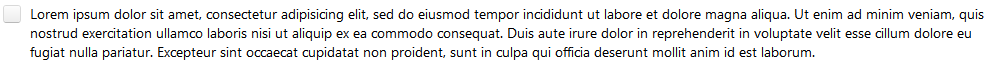
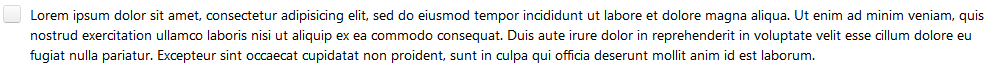
Fixed checkbox styling w/o label

diff --git a/components/Checkbox/Checkbox.js b/components/Checkbox/Checkbox.js
@@ -26,15 +26,15 @@ import '../ensureOldIEClassName';
 import styles from './Checkbox.less';
 
 type Props = {
-  children?: any,
   checked?: boolean,
+  children?: React.Element<*> | string,
   disabled?: boolean,
   error?: boolean,
-  warning?: boolean,
   onChange?: (event: { target: { value: boolean } }, value: boolean) => void,
   onMouseEnter?: (e: SyntheticMouseEvent) => void,
   onMouseLeave?: (e: SyntheticMouseEvent) => void,
-  onMouseOver?: (e: SyntheticMouseEvent) => void
+  onMouseOver?: (e: SyntheticMouseEvent) => void,
+  warning?: boolean
 };
 
 class Checkbox extends React.Component {
@@ -69,15 +69,16 @@ class Checkbox extends React.Component {
       [styles.focus]: this.state.focusedByTab
     });
 
-    const inputProps: Object = {
+    const inputProps = {
       type: 'checkbox',
       className: styles.input,
       checked: this.props.checked,
       disabled: this.props.disabled,
-      onChange: this.handleChange,
+      onChange: this._handleChange,
       ref: this._inputRef,
       onFocus: this._handleFocus,
-      onBlur: this._handleBlur
+      onBlur: this._handleBlur,
+      tabIndex: undefined
     };
     if (this.props.tabIndex) {
       inputProps.tabIndex = this.props.tabIndex;
@@ -127,9 +128,9 @@ class Checkbox extends React.Component {
     this.input = ref;
   };
 
-  handleChange = (event: { target: { checked: boolean } }) => {
+  _handleChange = event => {
     const checked = event.target.checked;
-    this.props.onChange && this.props.onChange((event: any), checked);
+    this.props.onChange && this.props.onChange(event, checked);
   };
 }
 

diff --git a/components/Checkbox/__tests__/Checkbox.stories.js b/components/Checkbox/__tests__/Checkbox.stories.js
@@ -26,19 +26,19 @@ storiesOf('Checkbox', module)
   .add('unchecked', () => <Checkbox>Unchecked</Checkbox>)
   .add('checked', () => <Checkbox checked>Checked</Checkbox>)
   .add('disabled', () => <Checkbox disabled>Disabled</Checkbox>)
-  .add('disabled checked', () => (
+  .add('disabled checked', () =>
     <Checkbox disabled checked>Disabled and checked</Checkbox>
-  ))
+  )
   .add('error', () => <Checkbox error>Error</Checkbox>)
-  .add('with mouse enter/leave handlers', () => (
+  .add('with mouse enter/leave handlers', () =>
     <Checkbox
       onMouseEnter={() => console.count('enter')}
       onMouseLeave={() => console.count('leave')}
     >
       Hover me
     </Checkbox>
-  ))
-  .add('with a long label', () => (
+  )
+  .add('with a long label', () =>
     <PlainCheckbox>
       Lorem ipsum dolor sit amet, consectetur adipisicing elit, sed do eiusmod
       tempor incididunt ut labore et dolore magna aliqua. Ut enim ad minim
@@ -48,4 +48,10 @@ storiesOf('Checkbox', module)
       cupidatat non proident, sunt in culpa qui officia deserunt mollit anim id
       est laborum.
     </PlainCheckbox>
-  ));
+  )
+  .add('w/o label', () =>
+    <div>
+      <div>Some text <Checkbox /></div>
+      <div>Some text <Checkbox>Label</Checkbox></div>
+    </div>
+  );

diff --git a/components/Checkbox/Checkbox.less b/components/Checkbox/Checkbox.less
@@ -8,6 +8,8 @@
     -webkit-user-select: none;
     -moz-user-select: none;
     -ms-user-select: none;
+    height: 16px;
+    line-height: 20px;
 
     &:hover .box {
       background: linear-gradient(-180deg, #f2f2f2 0, #dfdfdf 100%);
@@ -21,7 +23,8 @@
         inset 0 1px 2px 0 rgba(0, 0, 0, 0.1);
     }
 
-    &:before, &:after {
+    &:before,
+    &:after {
       content: '';
       display: table;
     }

diff --git a/components/Checkbox/Checkbox.adapter.js b/components/Checkbox/Checkbox.adapter.js
@@ -8,10 +8,11 @@ const CheckboxAdapter = {
   },
 
   setChecked(inst: Checkbox, checked) {
-    inst.handleChange({ target: { checked } });
+    inst._handleChange({ target: { checked } });
   }
 };
 
+// eslint-disable-next-line flowtype/no-weak-types
 (Checkbox: any).__ADAPTER__ = CheckboxAdapter;
 
 export default Checkbox;

diff --git a/gemini/Checkbox.js b/gemini/Checkbox.js
@@ -54,3 +54,10 @@ gemini.suite('Checkbox with a long label', suite => {
     .setCaptureElements('#test-element')
     .capture('plain');
 });
+
+gemini.suite('Checkbox without label', suite => {
+  suite
+    .setUrl(pathTo('Checkbox', 'w/o label'))
+    .setCaptureElements('#test-element')
+    .capture('plain');
+});
